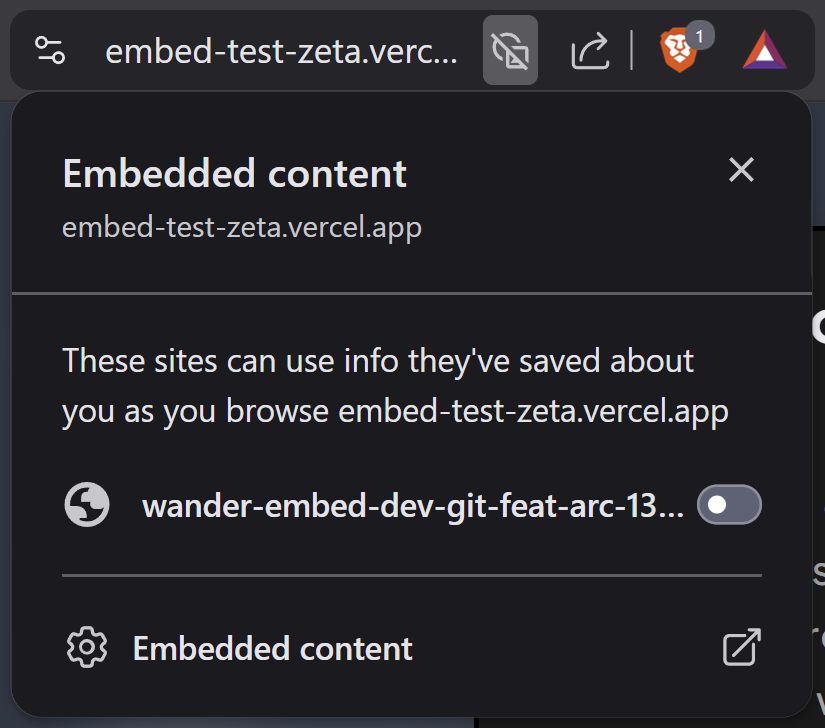
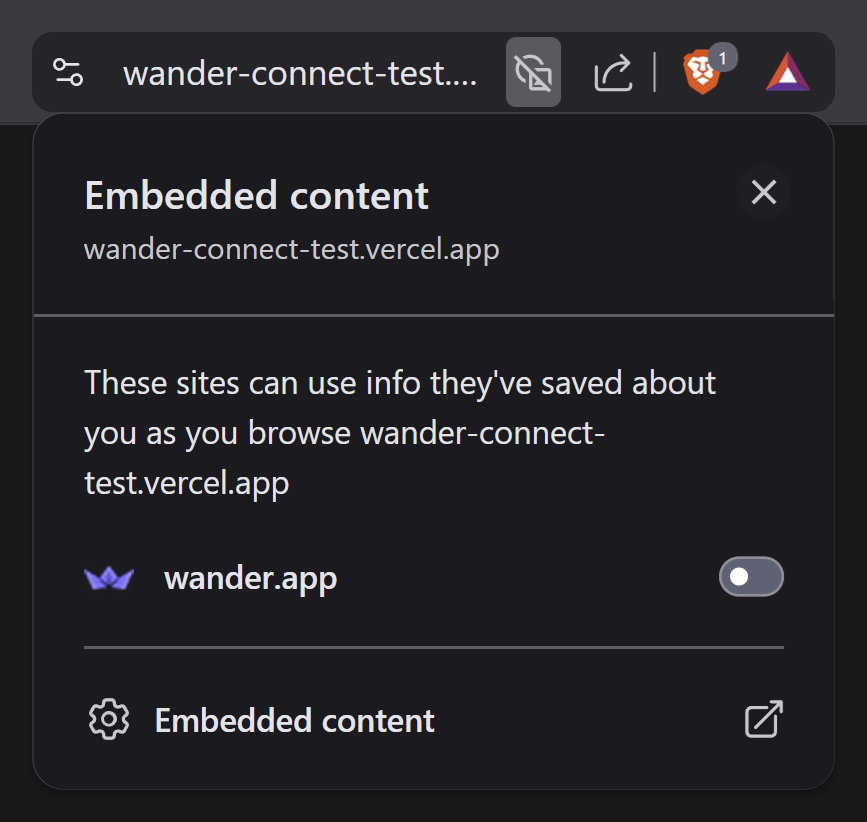
Add new light and dark screenshots for Brave.

diff --git a/src/routes/embedded/support/unpartitioned-state/unpartitioned-state.view.tsx b/src/routes/embedded/support/unpartitioned-state/unpartitioned-state.view.tsx
@@ -5,7 +5,7 @@ import { OnboardingCard } from "~components/embed/ui/molecules/card/onboarding-c
 import { EmbeddedPaths } from "~wallets/router/iframe/iframe.routes";
 import { Button, Checkbox, Snackbar } from "~components/embed";
 import { LocalStorage } from "~iframe/storage/unpartitioned-storage/local-storage";
-import Image from "~components/common/Image";
+import Image from "~components/common/Image/Image";
 import { toast } from "react-toastify";
 import { FormattedText } from "~components/embed/ui/atoms/formatted-text/FormattedText";
 import { useInterval } from "@swyg/corre";

diff --git a/assets/screenshots/unpartitioned-state/screenshot-instructions.md b/assets/screenshots/unpartitioned-state/screenshot-instructions.md
@@ -1,0 +1,12 @@
+Brave screenshot:
+
+- Both the popup and the navbar should be visible.
+- Brave's window must be 762px wide so that the popup and the navbar widths match. Still, the caps of the navbar might
+  be to be moved in 3-4px on each side to make it narrower.
+- Test page background should be rgb(25, 25, 25) for dark mode and white for light mode.
+- Leave a 32px padding around the image when cropping it.
+
+Chrome mobile screenshot:
+
+In app browser screenshot:
+